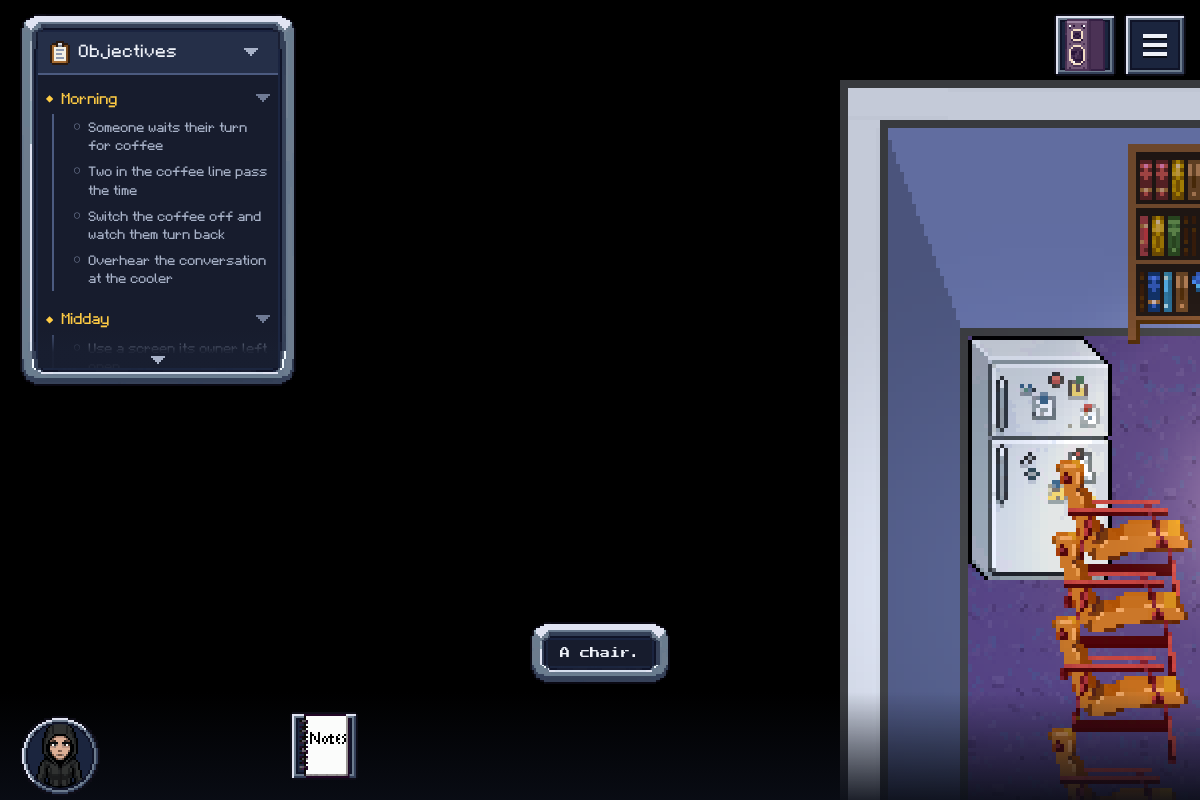
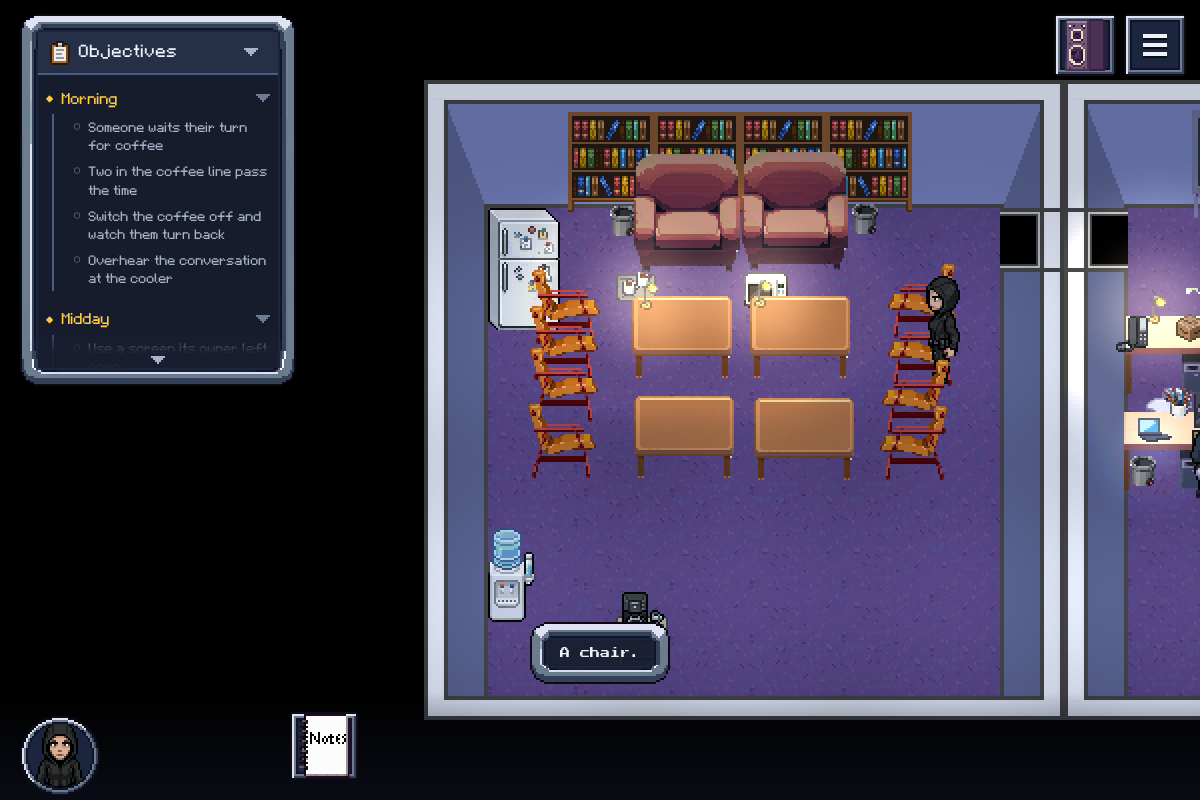
office_life_showcase S1: build report, whole-room renders, plan corrections (east lane open, Jun's post, T7 kitchen first)

diff --git a/scenarios/office_life_showcase/planning/PLAN.md b/scenarios/office_life_showcase/planning/PLAN.md
@@ -39,16 +39,16 @@ Kitchen objects (all copied from sims, `room_break`):
 
 Dropped from sims: copiers and outputs, print queue, deadline memo, coffee notice, activity board, desk phones, kitchen rota, kitchen copier socket, parcel, player mugs, the east and north doors.
 
-NPC posts (feet positions, tiles): Chidi (7, 3), Jun (3, 6), Graham (3, 4), Agnieszka (1, 5), Zainab (2.15, 6.65), all copied from the sims NPC each one replaces.
+NPC start tiles (feet positions, tiles): Chidi (7, 3), Jun (3, 6), Graham (3, 4), Agnieszka (1, 5), Zainab (2.15, 6.65), all copied from the sims NPC each one replaces. Each NPC's post is its desk machine, not the start tile: Jun starts at (3, 6) = px (96, 192) and walks to `jun_pc`, where his feet rest at about px (92, 164).
 
 Ama (new) at (5.5, 4.5) = px (176, 144): in the aisle, level with the north desk row, 48 px above the viewer's start and 24 px east of it, 24 px clear of Graham's chair and of the east desks, and off the door line. The aisle there runs from the west desks' east edge (x 108 px) to the east desks' west edge (x 210 px), so her body (x 166 to 186 px, y 139 to 149 px) leaves a physical lane of 58 px on her west and 24 px on her east. She is `immovable` (section 3), so the NPC pathfinding grid treats her body as an obstacle. The grid cell is 8 px (`utils/constants.js:37`), and the pathfinder rounds a body out to that grid and then pads it by one cell each side (`systems/npc-pathfinding.js:354-369`), which costs 8 to 15 px per side (the padding cell plus up to 7 px more from the rounding out), so the pathable lanes are narrower than the physical ones:
 
 | Lane | Blocked cells (x px) | Free cells | Pathable width |
 |---|---|---|---|
 | West (desk edge 108 to Ama) | desk to 119, Ama from 152 | cells 15 to 18 (120 to 151) | 32 px, 4 cells (3 to 5 by grid alignment) |
-| East (Ama to desk edge 210) | Ama to 199, desk from 200 | none | closed |
+| East (Ama to desk edge 210) | Ama to 199, desk from 200 | cell 25 (200 to 207), free at y 144 | 8 px, 1 cell |
 
-A walker steps cell centre to cell centre, so the west lane takes two walkers side by side with a cell to spare. The east lane is closed to pathing but is still a 24 px physical gap, and nothing in the plan routes through it. The spot (152, 144) was rejected because its west lane is only 1 cell (0 to 2, depending on grid alignment). Her drawn sprite reaches up to about y 64, level with the bookcase's lower edge, so it can overlap the door band on screen but not in the physics. She stays off the band at the top of the room: the straight line from Chidi's post (224, 96) to the west door (16, 80) crosses it at y 80 to 96, and every lunch walk, every kitchen trip and the mug run use it. The coffee routes run below her (Jun and Zainab from the west desks to the approach tile (7, 8), y 192 to 272) or east of the east desks (Chidi). The east side has no free spot: (8.5, 4.5) = px (272, 144), for example, sits inside the north-east desk's footprint (x 210 to 288 px, y 117 to 156 px) and on the bin. S1 watches the first coffee walk and the first walk to the west door, and counts the free cells west of her (section 11).
+A walker steps cell centre to cell centre, so the west lane takes two walkers side by side with a cell to spare. The east lane is open: one cell (x 200 to 207) is free at y 144, so a walker can pass down it in single file, 7 to 9 px from Ama's body. Chidi's office-coffee walk uses it. The spot (152, 144) was rejected because its west lane is only 1 cell (0 to 2, depending on grid alignment). Her drawn sprite reaches up to about y 64, level with the bookcase's lower edge, so it can overlap the door band on screen but not in the physics. She stays off the band at the top of the room: the straight line from Chidi's post (224, 96) to the west door (16, 80) crosses it at y 80 to 96, and every lunch walk, every kitchen trip and the mug run use it. The coffee routes run below her (Jun and Zainab from the west desks to the approach tile (7, 8), y 192 to 272) or down the east lane (Chidi). There is no free spot for a second NPC on the east side: (8.5, 4.5) = px (272, 144), for example, sits inside the north-east desk's footprint (x 210 to 288 px, y 117 to 156 px) and on the bin. S1 watches the first coffee walk and the first walk to the west door, and counts the free cells west of her (section 11).
 
 Lighting: office `on`; evening variant `{ "condition": "globalVars.act_evening === true", "ambient": "#8f96b0", "lights": [warm lamp over Zainab's tool roll] }`. Kitchen `on`; evening variant `{ "condition": "globalVars.act_evening === true", "mode": "motion", "offAfter": 10 }`. A variant applies as soon as its global changes and is re-read on load (`systems/lighting.js:37-42`, `:788-805`). In motion mode a visible NPC on the floor switches the lights on (`:1159-1168`), but only the player leaving starts the off timer (`:1031-1044`); so the evening must send nobody but the viewer into the kitchen (section 4, row 3.1).
 
@@ -371,7 +371,7 @@ Pass: all four as written. If 2 or 3 places the cake elsewhere but it still work
 
 Each slice ends with a commit on the branch and a live proof on a keyless server from the worktree on a free port (not 3000, 3001, 3002, 3085 or 3086), a fresh game per edit from `tools/playtest/new-game.rb office_life_showcase`, headless with `game.loop.setFPS(20)` and fixed steps on, driven through `window.__test`. Stop the server by PID only.
 
-- S1, skeleton. `mission.json` (display name "Office Life Tour", no `scoring`), `scenario.json.erb` (rooms, objects, cast with needs, globals, objectives with no `missionConclusion`, no `music` block, Ama's art and voice fields), Ama's ink with start, hub and exit only, five-line staff inks, base lighting. Proof: validator clean; render both rooms; each staff NPC reports `atPost` at its own desk; watch the first coffee walk and the first walk to the west door past Ama's spot (R1, R8, R11). Three named checks at Ama's spot (5.5, 4.5) = px (176, 144), body x 166 to 186, west desk edge 108. W0, before any walk: read the NPC pathfinding grid row at y 144 and count the free cells west of Ama between the desk and her body; at least 2 are required (4 expected). W1 (the NPC grid treats Ama as an obstacle because she is immovable, so every lunch walk, kitchen trip and mug run routes round her, none clips her body, and no NPC stalls or takes a long detour). W2, Jun's walk back from the west door to his desk at (3, 6) down the west lane beside her (he reaches `atPost` without sliding along her body or waiting). The east lane is closed, so none of the walks may use it: Chidi's coffee walk runs east of the east desks, Jun's and Zainab's run below Ama's rows, and every west-door walk runs along y 80 to 96 above the desks.
+- S1, skeleton. `mission.json` (display name "Office Life Tour", no `scoring`), `scenario.json.erb` (rooms, objects, cast with needs, globals, objectives with no `missionConclusion`, no `music` block, Ama's art and voice fields), Ama's ink with start, hub and exit only, five-line staff inks, base lighting. Proof: validator clean; render both rooms; each staff NPC reports `atPost` at its own desk; watch the first coffee walk and the first walk to the west door past Ama's spot (R1, R8, R11). Three named checks at Ama's spot (5.5, 4.5) = px (176, 144), body x 166 to 186, west desk edge 108. W0, before any walk: read the NPC pathfinding grid row at y 144 and count the free cells west of Ama between the desk and her body; at least 2 are required (4 expected). W1 (the NPC grid treats Ama as an obstacle because she is immovable, so every lunch walk, kitchen trip and mug run routes round her, none clips her body, and no NPC stalls or takes a long detour). W2, Jun's walk back from the west door to his post, `jun_pc` (feet about px (92, 164); (3, 6) is only his start tile), reaches `atPost` without sliding along Ama's body or waiting. W1 also covers the east lane: Chidi's office-coffee walk passes down it, and no walker may overlap Ama or stall there. Jun's and Zainab's coffee walks run below Ama's rows, and every west-door walk runs along y 80 to 96 above the desks. To send anyone through the west door in S1, open the kitchen once (enter and leave), then switch the office coffee off at the socket; with the kitchen unloaded, coffee jobs park with `no_source`.
 - S2, morning. Pools, per-NPC extras, coffee queue and both coffee couplings, the kitchen coffee's `offWhen`, socket lever, cooler coupling and exchange, mugs, B1 to B3, B11, `kitchen_seen`, Ama's hub hints. Proof: a timed run ticks all four morning tasks with no `__test.needs.set`; log the first and second queue times, the exchange time and the mug pickup against the door opening; log `chidi_pc_screen_locked` on Chidi's first coffee leave (expect the lock chime on every coffee run); a second run opens the kitchen at 0:30 (T6b); a third holds the kitchen shut until 3:30 (R2 to R4, R9, R12).
 - S3, midday and cake. Midday mappings, the lunch gate and its two declared globals, A29, A30, B4 to B9, Jun's work coupling, cake item and pools. Proof: call lunch during the second coffee run (A29), then after both return; see B4 with sound off, use Jun's PC, close it, wait by the desk, get caught, wait for all four, drop the cake; three midday tasks tick; build check BC1 (R7, R13).
 - S4, evening and lighting. Hide mappings, the coffee switch-on, lighting variants, B10, Zainab's delayed caffeine. Proof: screenshots of both rooms before and after the turn; no hidden NPC leaves a drawn image; Zainab goes to the office coffee and the task ticks; kitchen dark, then lit on entry, then dark 12 s after leaving; turn the evening with the coffee switched off and during a use, then click the socket once (R5, R10); reload after the turn keeps staff hidden and evening light (R6).
@@ -388,7 +388,7 @@ Each slice ends with a commit on the branch and a live proof on a keyless server
 | T5 | Queue chat plays from the coffee pools, never from Zainab; the task ticks only with the viewer in earshot | S2: one run with the viewer in the kitchen during the first queue (no tick), then near the queue (tick) |
 | T6 | Second run near 3:35 brings Jun and Zainab again, with the kitchen already open | S2: `needs.log()`; two `npc_queued:office_coffee` on the second run; nobody targets `kitchen_coffee` |
 | T6b | Kitchen opened before the first run: the first queue still forms in the office | S2: a run that opens the west door at 0:30; at about 0:50 Jun and Zainab queue at `office_coffee`, `see_queue` and `hear_queue_chat` tick, and `kitchen_coffee` reports off |
-| T7 | Switching the socket off turns walkers and queuers back with `grumble_off`; the kitchen machine comes on and they go to it | S2: `see_coffee_off` ticks; `kitchen_coffee` reports on in the same step; their next target is `kitchen_coffee`; switching the socket back on turns the kitchen machine off again and the next run queues in the office |
+| T7 | Switching the socket off turns walkers and queuers back with `grumble_off`; the kitchen machine comes on and they go to it | S2: first open the kitchen once (enter and leave), because before it loads coffee jobs park with `no_source` and nobody walks west; then `see_coffee_off` ticks; `kitchen_coffee` reports on in the same step; their next target is `kitchen_coffee`; switching the socket back on turns the kitchen machine off again and the next run queues in the office |
 | T8 | Cooler pair meets and the exchange plays once | S2: `hear_cooler_exchange` ticks; a later cooler visit plays pool lines only |
 | T9 | Kitchen opened late: the cooler pair goes once it loads | S2 second run, kitchen held shut to 3:30 |
 | T10 | Agnieszka carries the mugs to the tray as the kitchen first loads; B11 shows | S2: her pickup within a few seconds of the west door opening; mugs object gone from the office, tray holds them, B11 in the bark log; the same on the run that holds the kitchen shut |

diff --git a/scenarios/office_life_showcase/planning/BUILD_REPORT.md b/scenarios/office_life_showcase/planning/BUILD_REPORT.md
@@ -1,0 +1,51 @@
+# Office Life Tour: build report
+
+## S1 (skeleton)
+
+### Built
+
+- `mission.json` (display name "Office Life Tour", no scoring) and `scenario.json.erb`: office and kitchen rooms, objects, the cast with needs, the two globals S1 uses (`office_coffee_off`, `jun_badge_left`), the three aims and eight tasks as structure (nothing ticks them yet), no mission conclusion and no music block.
+- Six inks, compiled with no warnings: Ama (start, hub, reopen, exit) and five-line staff inks (start, reopen, one topic with a two-line answer, exit).
+- Desk machines in sims order (`chidi_pc`, `jun_pc`, `graham_pc`, `agnieszka_laptop`) so each owner claims the right desk. The office coffee machine has `offWhen "office_coffee_off"`; the kitchen machine is off while the office one is on. The socket lever is in place.
+- Validator: 0 errors, 17 warnings, all expected (cross-room need targets, a built-in `cooler` picture-chat note, three recommended-field notes). `test_needs_sims` is untouched, and the engine is unchanged.
+- Setup note: a `missions` row for `office_life_showcase` was created in the dev DB, from `mission.json` via rails runner, so that `new-game.rb` could make games. It is a mission row, not a game record, and it resolves once the scenario lands on main.
+
+### Proof
+
+Keyless server on port 3094 (boot log shows the missing-key warning), headless with `setFPS(20)` and fixed steps on, `/tts` aborted. Every game came from `new-game.rb` in its run.
+
+| Check | Result | Figures | Game |
+|---|---|---|---|
+| Validator | PASS | 0 errors, 17 expected warnings | n/a |
+| `atPost` for all five staff | PASS | all at their own post by about 7 s of game clock (Zainab finishes pushing her chair at about 7 s) | 7474, 7485 |
+| W0 free cells west of Ama | PASS | 5 free cells (x 112 to 151), or 4 excluding the desk-edge cell; at least 2 required | 7474 |
+| First coffee walk | PASS | Chidi: leaves at 50.8 s, uses the machine 53.8 to 65.8 s, back at post 77 s; no overlap, no stall | 7475 |
+| W1 | PASS | zero overlap samples for all five NPCs (figures below) | 7475, 7482 |
+| W2 | PASS | Jun back at post in 6 s, no wait (figures below) | 7482 |
+| Whole-room renders | PASS | both rooms framed in full | 7490 |
+
+Positions (sprite, feet about sprite y + 31): Chidi (228, 98), Jun (89, 137), Graham (92, 99), Agnieszka (44, 143), Zainab (76, 184). Jun's post is `jun_pc`, feet about (92, 164); (3, 6) is only his start tile (96, 192).
+
+### W0, W1, W2
+
+- W0 (game 7474, before any walk): grid cell 8 px. Row y 144, local x: 96 and 104 blocked (desk), 112 to 144 free, 152 to 192 blocked (Ama's body plus padding), 200 free, 208 and 216 blocked (east desk). So 5 free cells west of Ama, and 1 free cell east of her (x 200 to 207).
+- W1, east lane (game 7475, office coffee on): Chidi's walk goes down x 204 (body x 193 to 213), 7.3 px from Ama's body on the way out (52.0 s) and 9 px on the way back (70.5 s). About 85 px/s, direct, no overlap, no stall.
+- W1, west door (game 7482, kitchen opened first, coffee off at the socket): Chidi's trips at 0:50 and 3:34 run along y 93 above Ama, 10 to 17 px clear. Jun's trip at 3:00: (89, 137), (104, 133), (114, 110), (84, 93), door, minimum gap to Ama 42 px. Graham's cooler trip at 160 s, minimum gap 60 px. Agnieszka's mug run at 20 s and cooler trip at 160 s, minimum gap 39 px. Zero overlap samples for all five.
+- W2 (game 7482): Jun's return from the kitchen starts at 200.0 s, (-212, 208), (-4, 53), (66, 75), (103, 109), (92, 133), post (89, 137). `atPost` true at 206.0 s (6 s). Speed 50 to 80 px/s throughout, no wait, minimum gap to Ama 53 px (he arrives from the north-west, never beside her).
+
+Other games: 7476 (lever before the kitchen was opened), 7486, 7487, 7489 (renders, earlier framing).
+
+### Observations
+
+- The kitchen must be loaded before the coffee lever sends anyone west. With the kitchen unloaded (game 7476), Chidi's caffeine job parks `no_source` for the whole 8 minutes and nobody walks to the west door. With the kitchen opened first (entered and left), the same lever sends Chidi and then Jun west. Lever recipe: `moveToNear('office_coffee_socket')`, `interact('office_coffee_socket')`, click `.game-confirm-ok`.
+- Chidi pauses about 3.5 s after using the machine before his return starts moving.
+- The east lane is open, not closed (see W1). PLAN section 2 and section 11 now say so.
+- Only Chidi walks to the office coffee in S1; the queue arrives in S2.
+
+### Screens
+
+`scenarios/office_life_showcase/planning/screens/`: `s1-office-start`, `s1-first-coffee-walk`, `s1-kitchen`, `s1-west-door-walk`, `s1-office-after-kitchen`, `s1-office-posts` (Zainab still pushing her chair), `s1-office-room` and `s1-kitchen-room` (whole-room renders, camera zoom 1, game 7490).
+
+### Scripts
+
+`tools/playtest/showcase-s1-probe.mjs` (phases state, w0, post, homes, watch, lever, render), `showcase-s1-analyse.mjs`, `showcase-s1-path.mjs`.
